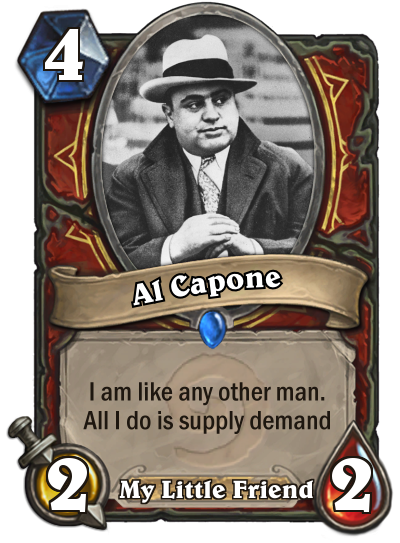
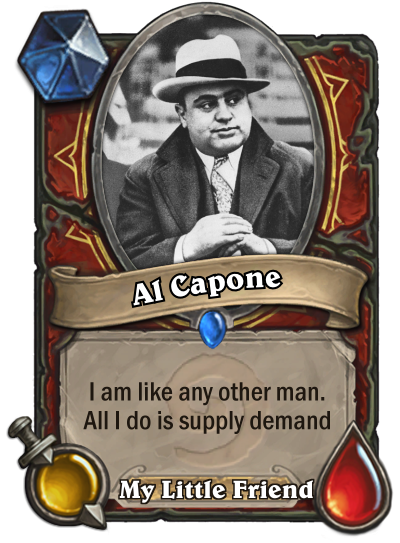
Added method to draw text to an image, as well as create cards with blank stats to test it with. Now using test cards.

diff --git a/app/src/main/java/test/puigames/courseofhistory/framework/engine/gameobjects/Sprite.java b/app/src/main/java/test/puigames/courseofhistory/framework/engine/gameobjects/Sprite.java
@@ -2,8 +2,11 @@ package test.puigames.courseofhistory.framework.engine.gameobjects;
 
 import android.graphics.Bitmap;
 import android.graphics.Canvas;
+import android.graphics.Color;
 import android.graphics.Matrix;
 import android.graphics.Paint;
+import android.graphics.Rect;
+import android.text.TextPaint;
 
 import test.puigames.courseofhistory.framework.engine.gameobjects.properties.BoundingBox;
 import test.puigames.courseofhistory.framework.engine.gameobjects.properties.Drawable;
@@ -33,6 +36,7 @@ public abstract class Sprite extends GameObject implements Drawable {
     public Sprite(Bitmap bitmap, int width, int height) {
         super(width,  height);
         this.image = bitmap;
+
     }
 
     //deals with acceleration and velocity of sprite
@@ -119,5 +123,29 @@ public abstract class Sprite extends GameObject implements Drawable {
 
     public void setOrigin(Origin origin) {
         this.origin = origin;
+    }
+
+    public void drawTextToImage(String text, Bitmap card, int locationX, int locationY) {
+        Bitmap mutableBitmap = card.copy(Bitmap.Config.ARGB_8888, true);
+        Canvas canvas = new Canvas(mutableBitmap);
+        paint.reset();
+
+        // new antialised Paint
+        Paint paint = new Paint(Paint.ANTI_ALIAS_FLAG);
+        // text color - #3D3D3D
+        paint.setColor(Color.rgb(255,255, 255));
+        // text size in pixels
+        paint.setTextSize(12);
+        // text shadow
+        paint.setShadowLayer(1, 0, 1, Color.DKGRAY);
+
+        // draw text to the Canvas center
+        Rect bounds = new Rect();
+        paint.getTextBounds(text, 0, text.length(), bounds);
+
+
+        canvas.drawText(text, locationX, locationY, paint);
+
+        setImage(mutableBitmap);
     }
 }

diff --git a/app/src/main/java/test/puigames/courseofhistory/framework/game/assets/cards/CharacterCard.java b/app/src/main/java/test/puigames/courseofhistory/framework/game/assets/cards/CharacterCard.java
@@ -1,6 +1,10 @@
 package test.puigames.courseofhistory.framework.game.assets.cards;
 
 import android.graphics.Bitmap;
+import android.graphics.Canvas;
+import android.graphics.Color;
+import android.graphics.Paint;
+import android.graphics.Rect;
 
 import test.puigames.courseofhistory.framework.game.assets.players.events.Damageable;
 
@@ -26,6 +30,8 @@ public class CharacterCard extends Card implements Damageable.Attackable {
         this.attack = attack;
         this.health = health;
         this.abilityDescription = abilityDescription;
+
+        super.drawTextToImage("999", super.image, 15, 15);
 
     }
 
@@ -58,5 +64,8 @@ public class CharacterCard extends Card implements Damageable.Attackable {
     public boolean isDeaders() {
        return this.health <= 0;
     }
+
+
+
 
 }

diff --git a/app/src/main/java/test/puigames/courseofhistory/framework/engine/resourceloading/ResourceFetcher.java b/app/src/main/java/test/puigames/courseofhistory/framework/engine/resourceloading/ResourceFetcher.java
@@ -60,7 +60,7 @@ public class ResourceFetcher implements Fetcher {
     //TODO: loadCharacterCards will be used to load a specified set of cards e.g. decks and all cards
     @Override
     public CharacterCard[] loadCharacterCards(String cardsNames) throws NullPointerException{
-        JSONArray cardJsonArray = jsonBourne.fromJSONStringToJsonArray(getStringFromFile(CARDS_URL), cardsNames);
+        JSONArray cardJsonArray = jsonBourne.fromJSONStringToJsonArray(getStringFromFile(TEST_CARDS_URL), cardsNames);
 
         CharacterCard[] characterCards = new CharacterCard[cardJsonArray.length()];
         int index = 0;

diff --git a/app/src/main/java/test/puigames/courseofhistory/framework/game/levels/TestLevel.java b/app/src/main/java/test/puigames/courseofhistory/framework/game/levels/TestLevel.java
@@ -29,7 +29,6 @@ public class TestLevel extends Level
 {
     public static int MAX_PLAYERS = 2;
     private final String[] DECK_NAMES = {"greatMindsCards", "evilLeaderCards"};
-    private final String[] TEST_CARD_NAMES = {"cards1", "cards2"};
     private Animation animation;
     private Bitmap explodeAnimation;
     private Board board;
